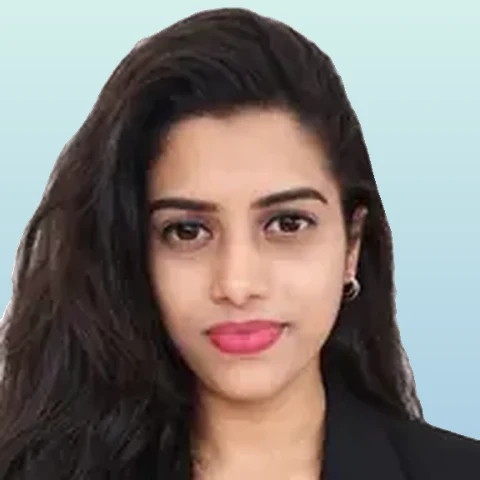
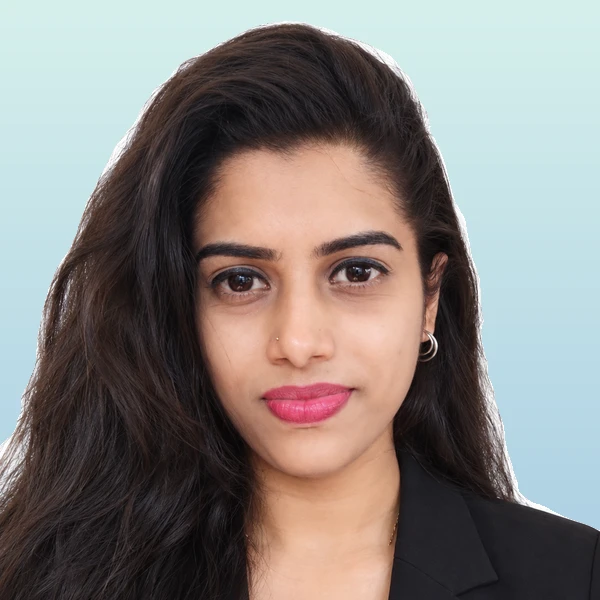
New HD leadership photos, smaller cards
Claude-Session: https://claude.ai/code/session_01JfxxoaP7tdXm9dFUwkzdj2

diff --git a/builder_source/styles.css b/builder_source/styles.css
@@ -176,14 +176,14 @@ nav.main a:hover,nav.main a[aria-current="page"]{color:var(--teal-ink)}
 .faq details p{padding-bottom:18px;max-width:70ch}
 
 /* team */
-.team{display:grid;grid-template-columns:repeat(auto-fit,minmax(280px,400px));gap:28px;justify-content:center}
+.team{display:grid;grid-template-columns:repeat(auto-fit,minmax(240px,290px));gap:28px;justify-content:center}
 .person{position:relative;background:#fff;border:1px solid var(--line);border-radius:20px;padding:0 0 26px;display:grid;gap:4px;justify-items:center;text-align:center;overflow:hidden;box-shadow:0 10px 30px rgba(11,61,107,.08);transition:transform .25s,box-shadow .25s}
 .person:hover{transform:translateY(-4px);box-shadow:0 18px 40px rgba(11,61,107,.14)}
 .person img{display:block;width:100%;height:auto;aspect-ratio:1/1;object-fit:cover;object-position:center top;margin:0 0 18px;border-bottom:4px solid var(--teal);background:var(--soft)}
 .person h3,.person p{padding:0 22px}
-.person h3{font-size:1.3rem}
-.person .role{color:var(--teal-ink);font-weight:600;font-size:.95rem;letter-spacing:.01em}
-.person .meta{margin-top:12px;font-size:.9rem;color:var(--navy);background:var(--soft);padding:8px 14px;border-radius:999px;overflow-wrap:anywhere}
+.person h3{font-size:1.15rem}
+.person .role{color:var(--teal-ink);font-weight:600;font-size:.88rem;letter-spacing:.01em}
+.person .meta{margin-top:10px;font-size:.84rem;color:var(--navy);background:var(--soft);padding:8px 14px;border-radius:999px;overflow-wrap:anywhere}
 
 /* values */
 .vm{display:grid;grid-template-columns:1fr 1fr;gap:20px}

diff --git a/styles.css b/styles.css
@@ -176,14 +176,14 @@ nav.main a:hover,nav.main a[aria-current="page"]{color:var(--teal-ink)}
 .faq details p{padding-bottom:18px;max-width:70ch}
 
 /* team */
-.team{display:grid;grid-template-columns:repeat(auto-fit,minmax(280px,400px));gap:28px;justify-content:center}
+.team{display:grid;grid-template-columns:repeat(auto-fit,minmax(240px,290px));gap:28px;justify-content:center}
 .person{position:relative;background:#fff;border:1px solid var(--line);border-radius:20px;padding:0 0 26px;display:grid;gap:4px;justify-items:center;text-align:center;overflow:hidden;box-shadow:0 10px 30px rgba(11,61,107,.08);transition:transform .25s,box-shadow .25s}
 .person:hover{transform:translateY(-4px);box-shadow:0 18px 40px rgba(11,61,107,.14)}
 .person img{display:block;width:100%;height:auto;aspect-ratio:1/1;object-fit:cover;object-position:center top;margin:0 0 18px;border-bottom:4px solid var(--teal);background:var(--soft)}
 .person h3,.person p{padding:0 22px}
-.person h3{font-size:1.3rem}
-.person .role{color:var(--teal-ink);font-weight:600;font-size:.95rem;letter-spacing:.01em}
-.person .meta{margin-top:12px;font-size:.9rem;color:var(--navy);background:var(--soft);padding:8px 14px;border-radius:999px;overflow-wrap:anywhere}
+.person h3{font-size:1.15rem}
+.person .role{color:var(--teal-ink);font-weight:600;font-size:.88rem;letter-spacing:.01em}
+.person .meta{margin-top:10px;font-size:.84rem;color:var(--navy);background:var(--soft);padding:8px 14px;border-radius:999px;overflow-wrap:anywhere}
 
 /* values */
 .vm{display:grid;grid-template-columns:1fr 1fr;gap:20px}

diff --git a/about.html b/about.html
@@ -63,8 +63,8 @@
 <section style="background:#fff"><div class="wrap">
   <div class="head center"><span class="eyebrow">Leadership</span><h2>Meet Our Leadership Team</h2></div>
   <div class="team">
-    <div class="person"><img src="assets/sanjeet-kumar.webp" alt="Sanjeet Kumar" width="192" height="192" loading="lazy"><h3>Sanjeet Kumar</h3><p class="role">Founder &amp; Chief Executive Officer</p><p class="meta">chairman@vitaniacare.com</p></div>
-    <div class="person"><img src="assets/prateeksha-devadiga.webp" alt="Prateeksha Devadiga" width="192" height="192" loading="lazy"><h3>Prateeksha Devadiga</h3><p class="role">Co-Founder &amp; Head of Operations</p><p class="meta">prateeksha@vitaniacare.com</p></div>
+    <div class="person"><img src="assets/sanjeet-kumar.webp" alt="Sanjeet Kumar" width="600" height="600" loading="lazy"><h3>Sanjeet Kumar</h3><p class="role">Founder &amp; Chief Executive Officer</p><p class="meta">chairman@vitaniacare.com</p></div>
+    <div class="person"><img src="assets/prateeksha-devadiga.webp" alt="Prateeksha Devadiga" width="600" height="600" loading="lazy"><h3>Prateeksha Devadiga</h3><p class="role">Co-Founder &amp; Head of Operations</p><p class="meta">prateeksha@vitaniacare.com</p></div>
   </div>
 </div></section>
 <section><div class="wrap"><div class="cta"><div><h2>Partner with Vitania Care</h2><p>Let's build healthier workplaces and deliver quality healthcare with care, trust and expertise. Connect with our team to explore tailored healthcare solutions for your organisation and family.</p></div>

diff --git a/builder_source/build.py b/builder_source/build.py
@@ -571,8 +571,8 @@ about = f'''{page_hero("About Us", "About Vitania Care", "Healthier People, Brig
 <section style="background:#fff"><div class="wrap">
   <div class="head center"><span class="eyebrow">Leadership</span><h2>Meet Our Leadership Team</h2></div>
   <div class="team">
-    <div class="person"><img src="assets/sanjeet-kumar.webp" alt="Sanjeet Kumar" width="192" height="192" loading="lazy"><h3>Sanjeet Kumar</h3><p class="role">Founder &amp; Chief Executive Officer</p><p class="meta">chairman@vitaniacare.com</p></div>
-    <div class="person"><img src="assets/prateeksha-devadiga.webp" alt="Prateeksha Devadiga" width="192" height="192" loading="lazy"><h3>Prateeksha Devadiga</h3><p class="role">Co-Founder &amp; Head of Operations</p><p class="meta">prateeksha@vitaniacare.com</p></div>
+    <div class="person"><img src="assets/sanjeet-kumar.webp" alt="Sanjeet Kumar" width="600" height="600" loading="lazy"><h3>Sanjeet Kumar</h3><p class="role">Founder &amp; Chief Executive Officer</p><p class="meta">chairman@vitaniacare.com</p></div>
+    <div class="person"><img src="assets/prateeksha-devadiga.webp" alt="Prateeksha Devadiga" width="600" height="600" loading="lazy"><h3>Prateeksha Devadiga</h3><p class="role">Co-Founder &amp; Head of Operations</p><p class="meta">prateeksha@vitaniacare.com</p></div>
   </div>
 </div></section>
 {cta("Partner with Vitania Care", "Let's build healthier workplaces and deliver quality healthcare with care, trust and expertise. Connect with our team to explore tailored healthcare solutions for your organisation and family.")}'''
